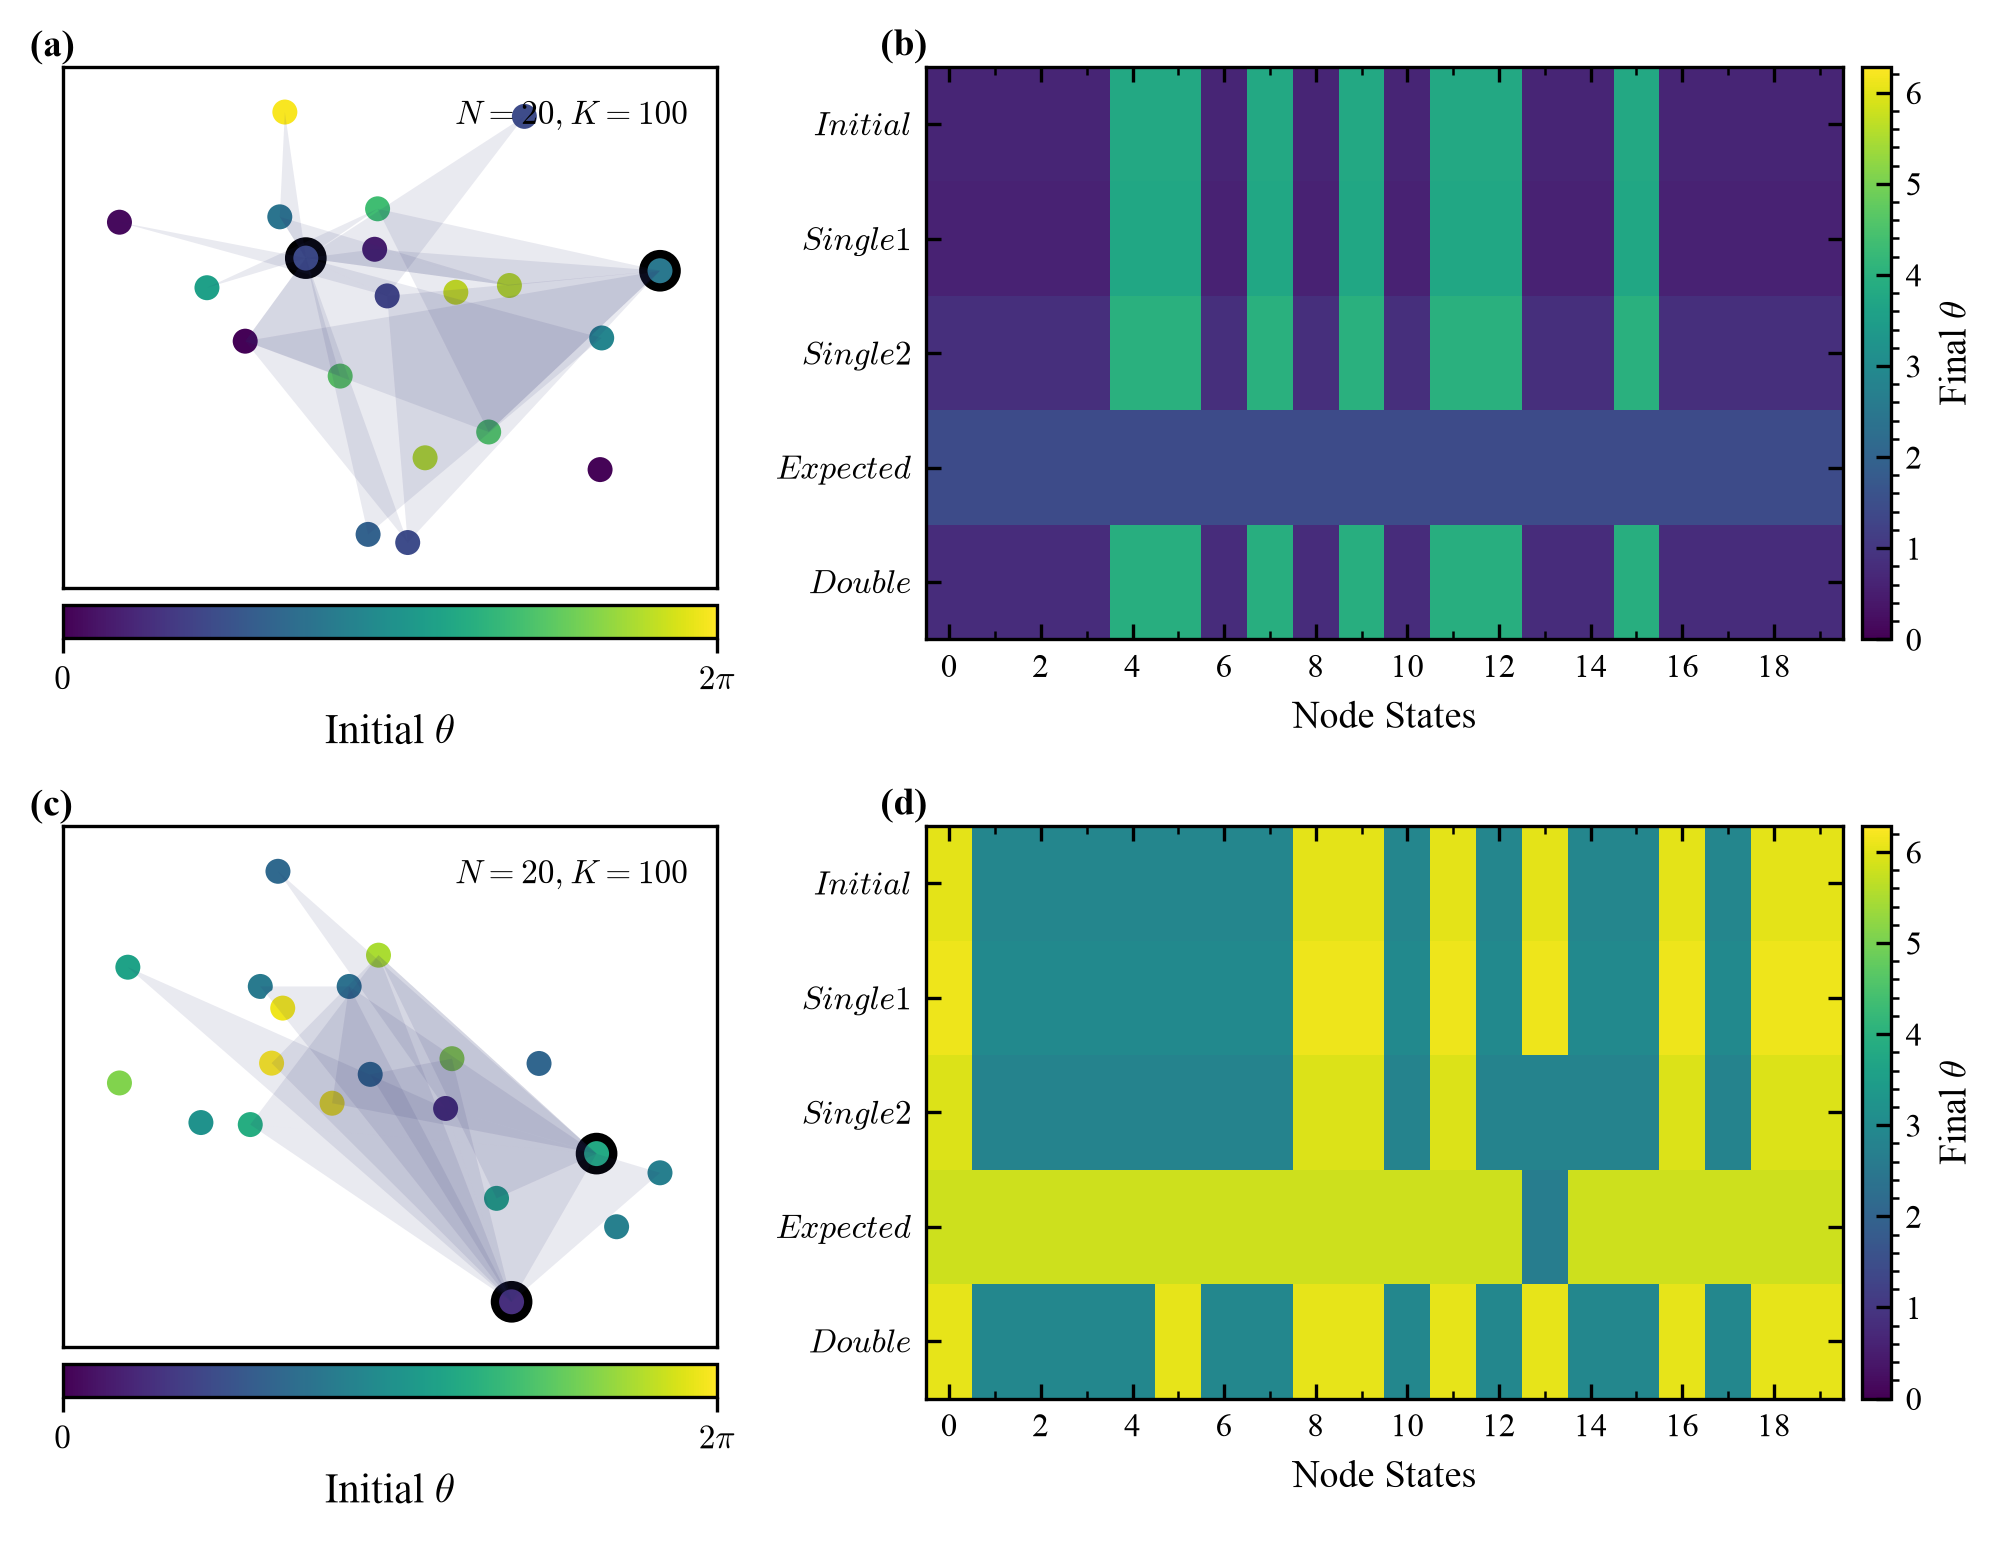
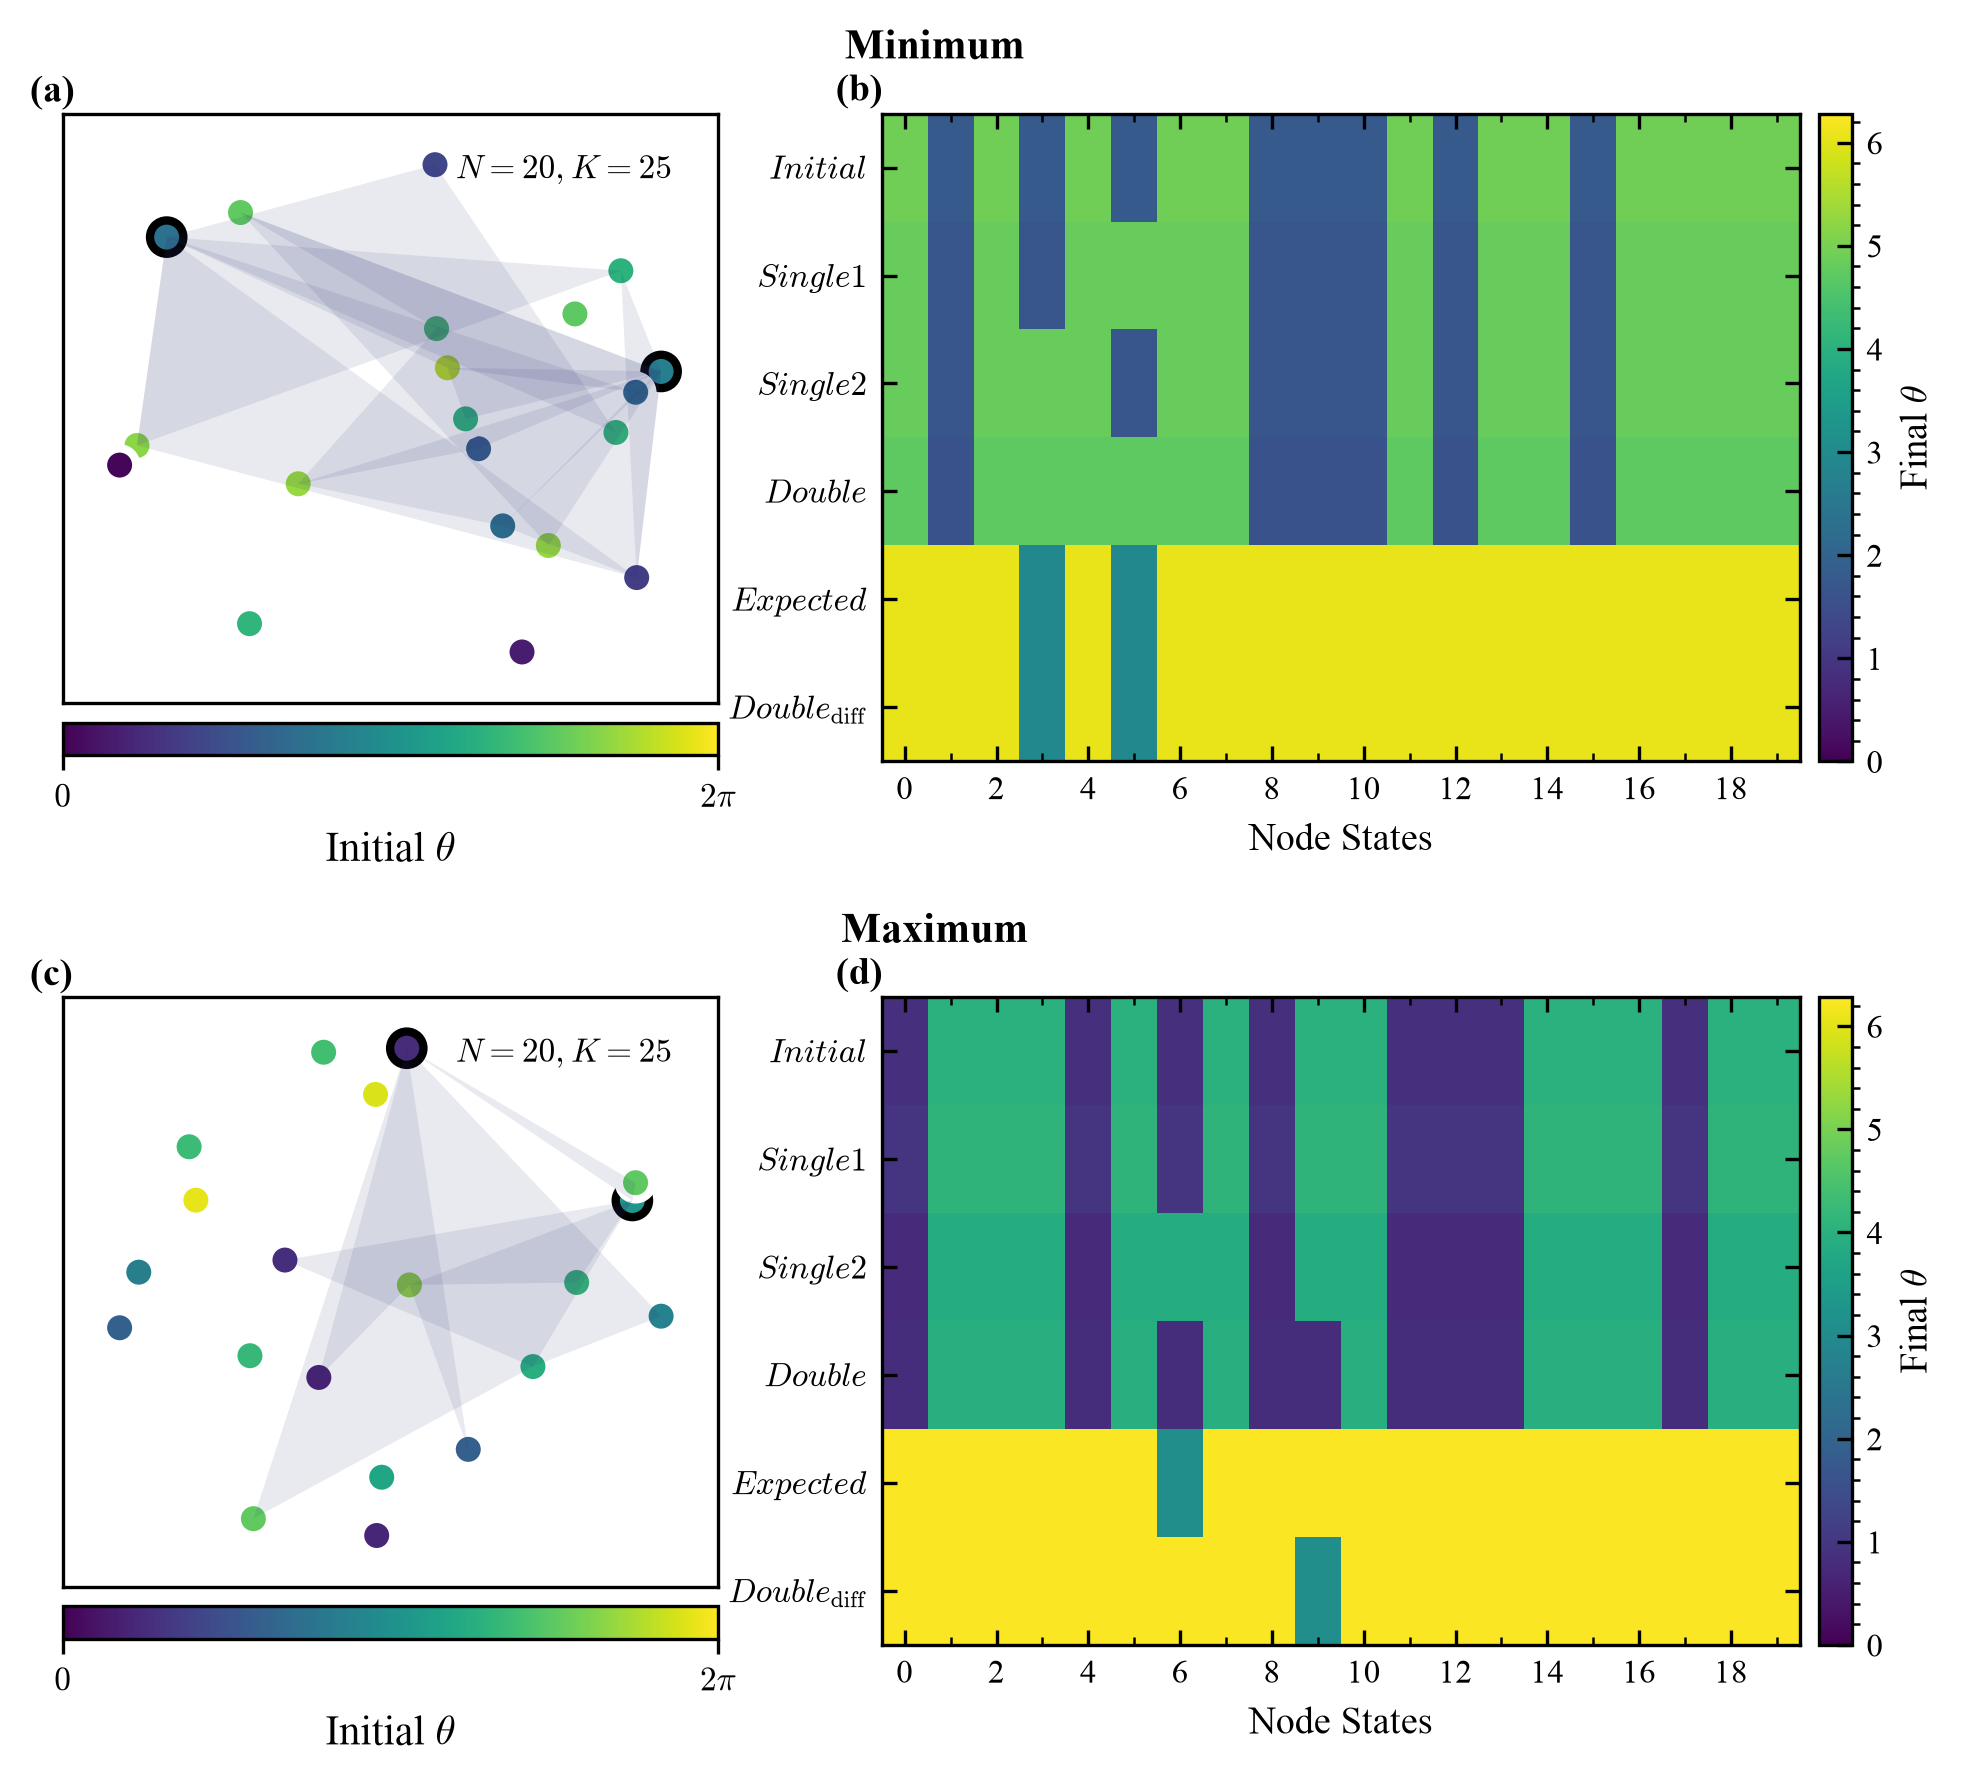
Rethinking attractor finding algorithm

diff --git a/plots/plot_kuramoto_epis.py b/plots/plot_kuramoto_epis.py
@@ -287,6 +287,8 @@ def plot_minimum_hi_epistasis_graphs(higher, seeds, N, p_H, K, pert_str):
 
     MinStateVectors = MinHigherEpisData.StateVectors
     MaxStateVectors = MaxHigherEpisData.StateVectors
+    MinRelStateVectors = MinHigherEpisData.RelativeStateVectors
+    MaxRelStateVectors = MaxHigherEpisData.RelativeStateVectors
 
     min_pert_nodes_set = {min_node1, min_node2}
     max_pert_nodes_set = {max_node1, max_node2}
@@ -296,9 +298,19 @@ def plot_minimum_hi_epistasis_graphs(higher, seeds, N, p_H, K, pert_str):
     max_connected_edge_ids = set().union(*(max_H.nodes.memberships(v) for v in max_pert_nodes_set))
     max_H_sub = xgi.subhypergraph(max_H, edges=max_connected_edge_ids)
 
-    fig, axes = plt.subplots(2, 2, figsize=(6.75, 5.2), gridspec_kw={'width_ratios': [1, 1.5]})
+    fig = plt.figure(figsize=(7.75, 5.75))
+    subfigs = fig.subfigures(2, 1, hspace=0.05)
 
-    ax1 = axes[0,0]
+    # ---- Row 1: Minimum ----
+    subfigs[0].suptitle('Minimum', fontsize=10, fontweight='bold', y=0.98)
+    axes_top = subfigs[0].subplots(1, 2, gridspec_kw={'width_ratios': [1, 1.5]})
+    ax1, ax2 = axes_top
+
+    # ---- Row 2: Maximum ----
+    subfigs[1].suptitle('Maximum', fontsize=10, fontweight='bold', y=0.98)
+    axes_bottom = subfigs[1].subplots(1, 2, gridspec_kw={'width_ratios': [1, 1.5]})
+    ax3, ax4 = axes_bottom
+
 
     min_pos = xgi.barycenter_spring_layout(min_H, k=1.5)
 
@@ -342,20 +354,20 @@ def plot_minimum_hi_epistasis_graphs(higher, seeds, N, p_H, K, pert_str):
     ax1.set_xticks([])
     ax1.set_yticks([])
 
-    ax2 = axes[0,1]
-
     min_init = np.array(MinStateVectors.I)
     min_s1 = np.array(MinStateVectors.S1)
     min_s2 = np.array(MinStateVectors.S2)
-    min_ex = min_s1 + min_s2
     min_d = np.array(MinStateVectors.D)
+    min_ex = np.array(MinRelStateVectors.S1) + np.array(MinRelStateVectors.S2)
+    min_diff_d = np.array(MinRelStateVectors.D)
 
     data = np.vstack([
         min_init % (2 * np.pi),
         min_s1 % (2 * np.pi),
         min_s2 % (2 * np.pi),
+        min_d % (2 * np.pi),
         min_ex % (2 * np.pi),
-        min_d % (2 * np.pi)
+        min_diff_d % (2 * np.pi)
         ])
     
     im = ax2.imshow(data, cmap="viridis", aspect="auto", interpolation="nearest", vmin=0, vmax=2*np.pi)
@@ -365,18 +377,16 @@ def plot_minimum_hi_epistasis_graphs(higher, seeds, N, p_H, K, pert_str):
     cbar2.set_label(r"Final $\theta$", fontsize=9)
     cbar2.minorticks_on()
     
-    row_labels = [r"$Initial$",r"$Single 1$", r"$Single 2$", r"$Expected$", r"$Double$"]
-    ax2.set_yticks(np.arange(5))
+    row_labels = [r"$Initial$",r"$Single 1$", r"$Single 2$", r"$Double$", r"$Expected$", r"$Double_\mathrm{diff}$"]
+    ax2.set_yticks(np.arange(6))
     ax2.set_yticklabels(row_labels, fontsize=8)
     
-    ax2.set_xticks(np.arange(0, 20, 2))  # Tick every 2 units for clean look
+    ax2.set_xticks(np.arange(0, 20, 2))
     ax2.set_xticks(np.arange(0, 20, 1), minor=True)
     ax2.set_xlabel("Node States", fontsize=9)
     
     ax2.text(-0.05, 1.02, '(b)', transform=ax2.transAxes, fontweight='bold')
     ax2.tick_params(which="both", direction="in", top=True, right=True, labelsize=8)
-
-    ax3 = axes[1,0]
 
     max_pos = xgi.barycenter_spring_layout(max_H, k=1.5)
 
@@ -420,20 +430,20 @@ def plot_minimum_hi_epistasis_graphs(higher, seeds, N, p_H, K, pert_str):
     ax3.set_xticks([])
     ax3.set_yticks([])
 
-    ax4 = axes[1,1]
-
     max_init = np.array(MaxStateVectors.I)
     max_s1 = np.array(MaxStateVectors.S1)
     max_s2 = np.array(MaxStateVectors.S2)
-    max_ex = max_s1 + max_s2
     max_d = np.array(MaxStateVectors.D)
+    max_ex = np.array(MaxRelStateVectors.S1) + np.array(MaxRelStateVectors.S2)
+    max_diff_d = np.array(MaxRelStateVectors.D)
 
     data = np.vstack([
         max_init % (2 * np.pi),
         max_s1 % (2 * np.pi),
         max_s2 % (2 * np.pi),
+        max_d % (2 * np.pi),
         max_ex % (2 * np.pi),
-        max_d % (2 * np.pi)
+        max_diff_d % (2 * np.pi)
         ])
     
     im = ax4.imshow(data, cmap="viridis", aspect="auto", interpolation="nearest", vmin=0, vmax=2*np.pi)
@@ -443,18 +453,17 @@ def plot_minimum_hi_epistasis_graphs(higher, seeds, N, p_H, K, pert_str):
     cbar.set_label(r"Final $\theta$", fontsize=9)
     cbar.minorticks_on()
     
-    row_labels = [r"$Initial$",r"$Single 1$", r"$Single 2$", r"$Expected$", r"$Double$"]
-    ax4.set_yticks(np.arange(5))
+    row_labels = [r"$Initial$",r"$Single 1$", r"$Single 2$", r"$Double$", r"$Expected$", r"$Double_\mathrm{diff}$"]
+    ax4.set_yticks(np.arange(6))
     ax4.set_yticklabels(row_labels, fontsize=8)
     
-    ax4.set_xticks(np.arange(0, 20, 2))  # Tick every 2 units for clean look
+    ax4.set_xticks(np.arange(0, 20, 2))
     ax4.set_xticks(np.arange(0, 20, 1), minor=True)
     ax4.set_xlabel("Node States", fontsize=9)
     
     ax4.text(-0.05, 1.02, '(d)', transform=ax4.transAxes, fontweight='bold')
     ax4.tick_params(which="both", direction="in", top=True, right=True, labelsize=8)
 
-    plt.tight_layout()
     output_dir = Path("outputs")
     output_dir.mkdir(parents=True, exist_ok=True)
 
@@ -495,7 +504,7 @@ def main():
     ep_L = p_H * (N - 2) * (1 / 3) 
     p_L = min(dp_L, 1.0)
 
-    K = 100
+    K = 25
     pert_str = np.pi / 2
 
     master_rng = np.random.default_rng()
@@ -503,12 +512,14 @@ def main():
 
     EpisArr = calculate_epistasis(n_trials=n_trials, N=N, p_H=p_H, p_L=p_L, K=K, pert_str=pert_str, seeds=seeds)
 
-    higherL2 = EpisArr.HL2
-    lowerL2 = EpisArr.LL2
+    higherEpi = EpisArr.HL2
+    lowerEpi = EpisArr.LL2
+    # higherEpi = EpisArr.HL1
+    # lowerEpi = EpisArr.LL1
 
-    plot_epistasis(higher=higherL2,lower=lowerL2, N=N, p_H=p_H, p_L=p_L, K=K, pert_str=pert_str)
+    plot_epistasis(higher=higherEpi,lower=lowerEpi, N=N, p_H=p_H, p_L=p_L, K=K, pert_str=pert_str)
 
-    plot_minimum_hi_epistasis_graphs(higher=higherL2,seeds=seeds, N=N, p_H=p_H, K=K, pert_str=pert_str)
+    plot_minimum_hi_epistasis_graphs(higher=higherEpi,seeds=seeds, N=N, p_H=p_H, K=K, pert_str=pert_str)
 
     plt.show()
 

diff --git a/plots/plot_regularization_hi.py b/plots/plot_regularization_hi.py
@@ -173,7 +173,7 @@ def figure1(H,delta_theta,N,ps,K):
     ax2.set_title(f"Distribution of Relative Phase")
     ax2.grid(axis='y', linestyle='--', alpha=0.5, zorder=0)
 
-def figure2(averaged_diff_norm_vec, K_vec):
+def plot_dyadic_domination(averaged_diff_norm_vec, K_vec):
     
     fig, ax = plt.subplots(figsize=(5, 3.5), dpi=150)
     
@@ -213,8 +213,10 @@ def figure2(averaged_diff_norm_vec, K_vec):
     ax.margins(x=0.03, y=0.05)
     
     fig.tight_layout()
-    return fig, ax
+    output_dir = Path("outputs")
+    output_dir.mkdir(parents=True, exist_ok=True)
 
+    plt.savefig(output_dir / "dyadic_domination.png", format="png", dpi=300, bbox_inches="tight")
 
 
 def main():
@@ -236,7 +238,7 @@ def main():
 
     averaged_diff_norm_vec, K_vec = calculate_dyadic_effect(N=N, ps=ps, K_max=K_max, n_trials_K=n_trials_K, n_trials_norm=n_trials_norm)
 
-    figure2(averaged_diff_norm_vec=averaged_diff_norm_vec, K_vec=K_vec)
+    plot_dyadic_domination(averaged_diff_norm_vec=averaged_diff_norm_vec, K_vec=K_vec)
 
     plt.tight_layout()
     plt.show()
